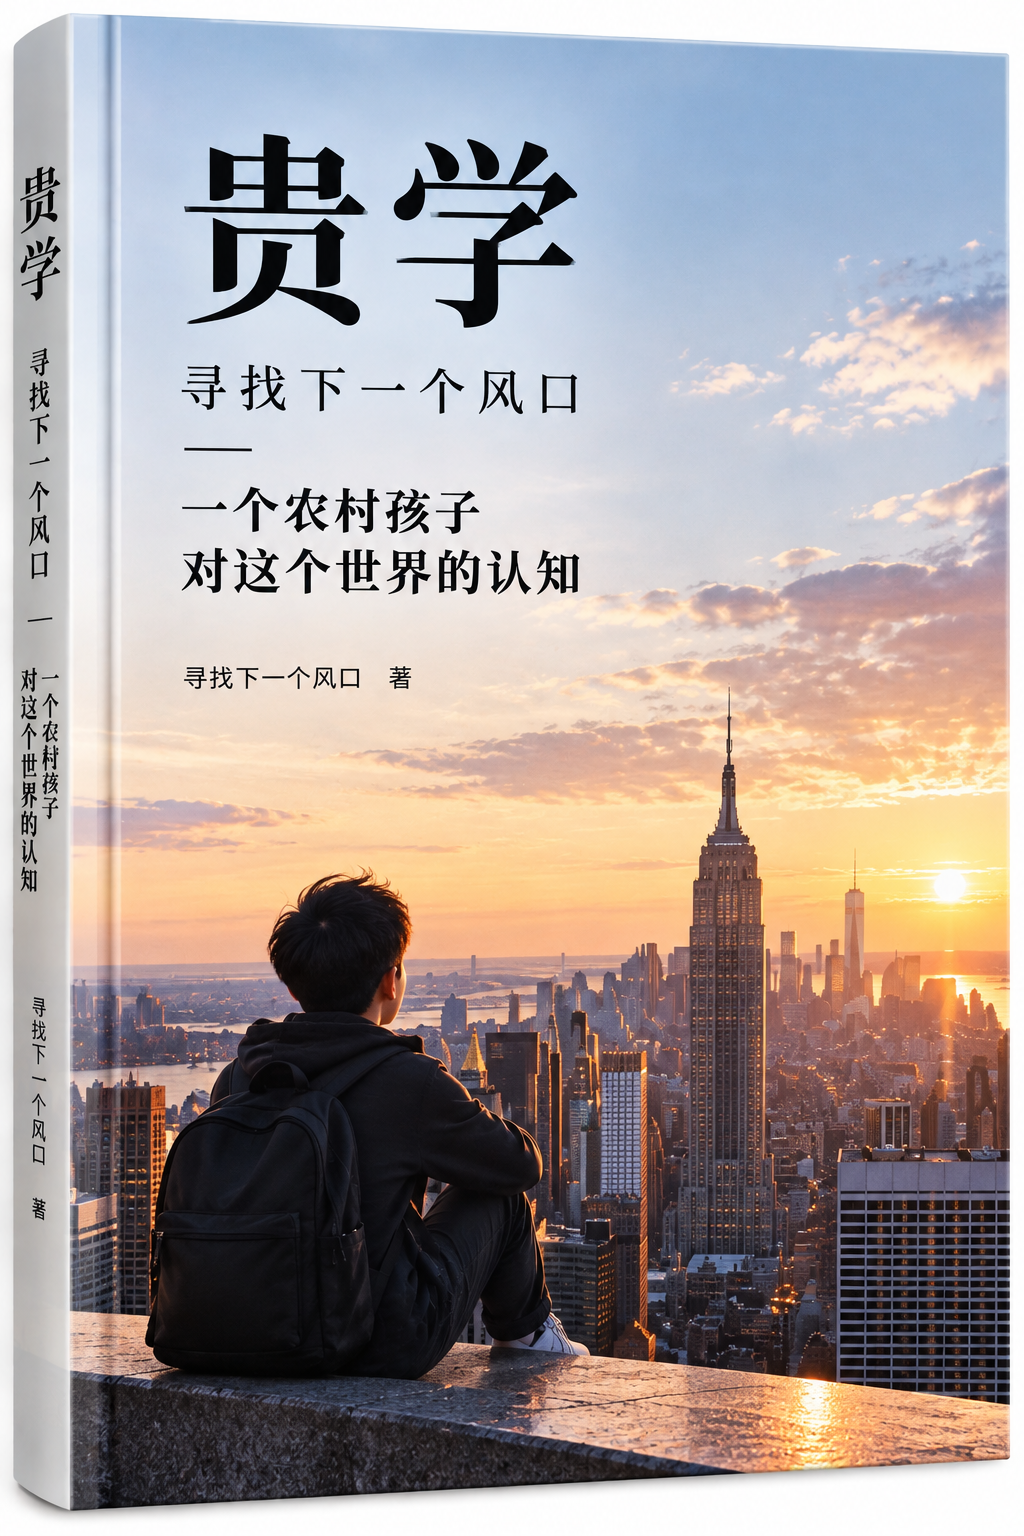
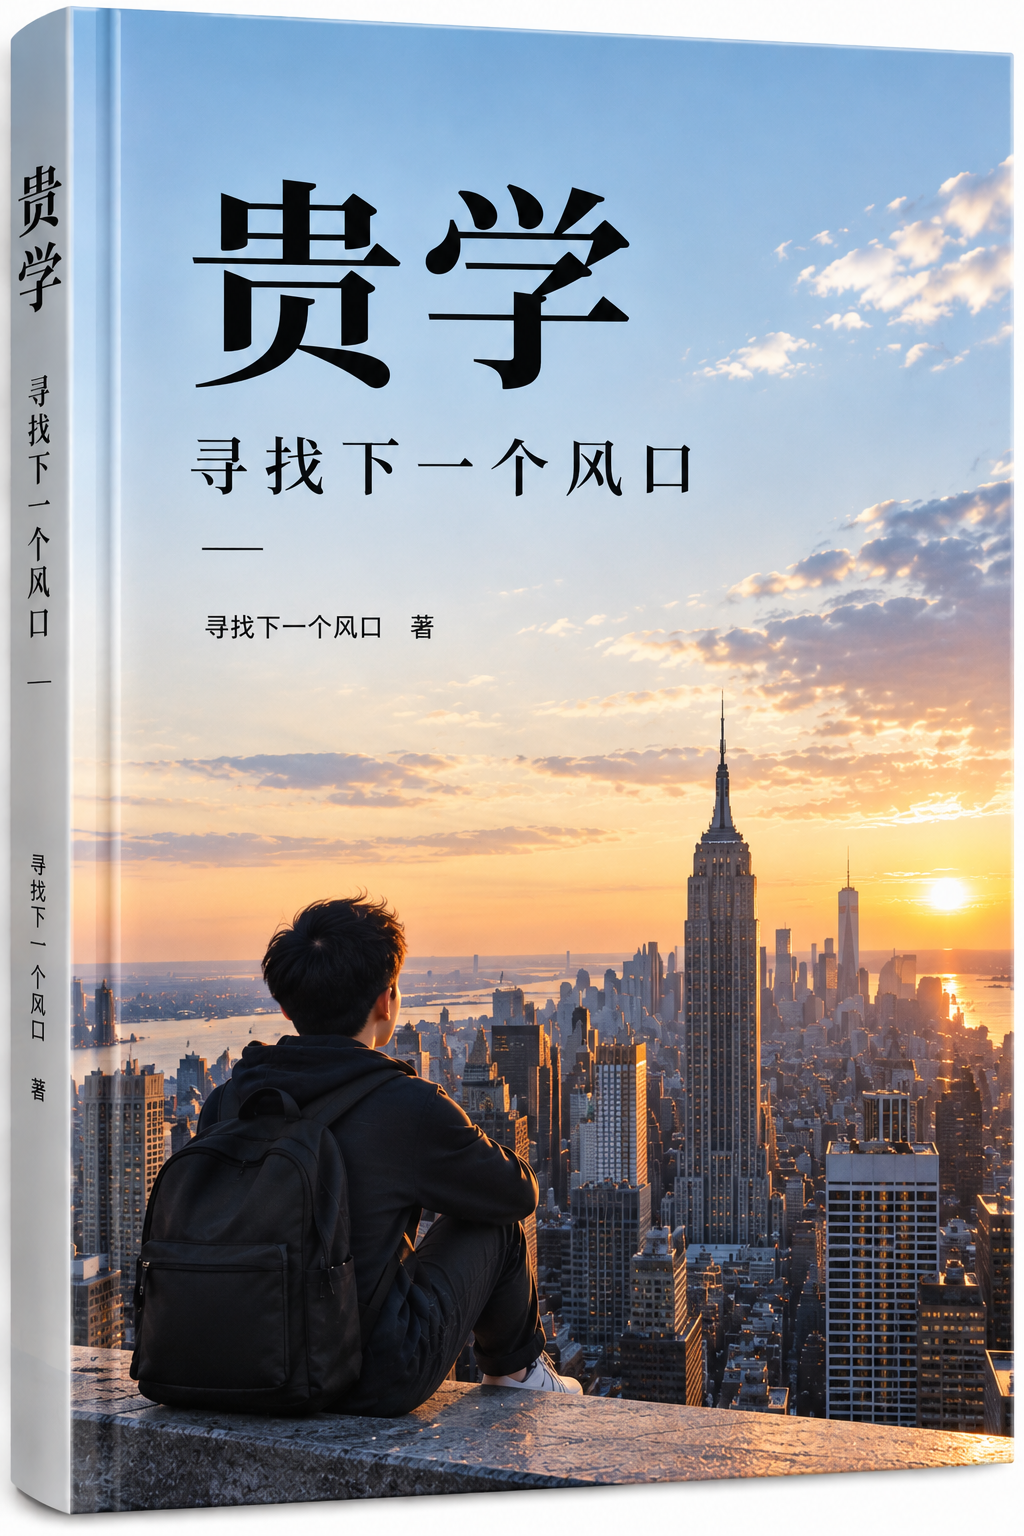
Cover v2: drop the rural-kid subtitle

diff --git a/index.html b/index.html
@@ -509,7 +509,7 @@
 
     <!-- 封面 -->
     <section class="sheet sheet-cover" data-sheet="cover">
-      <img class="cover-image" src="./cover.png" alt="贵学封面">
+      <img class="cover-image" src="./cover.png?v=2" alt="贵学封面">
     </section>
 
     <!-- 目录 -->
